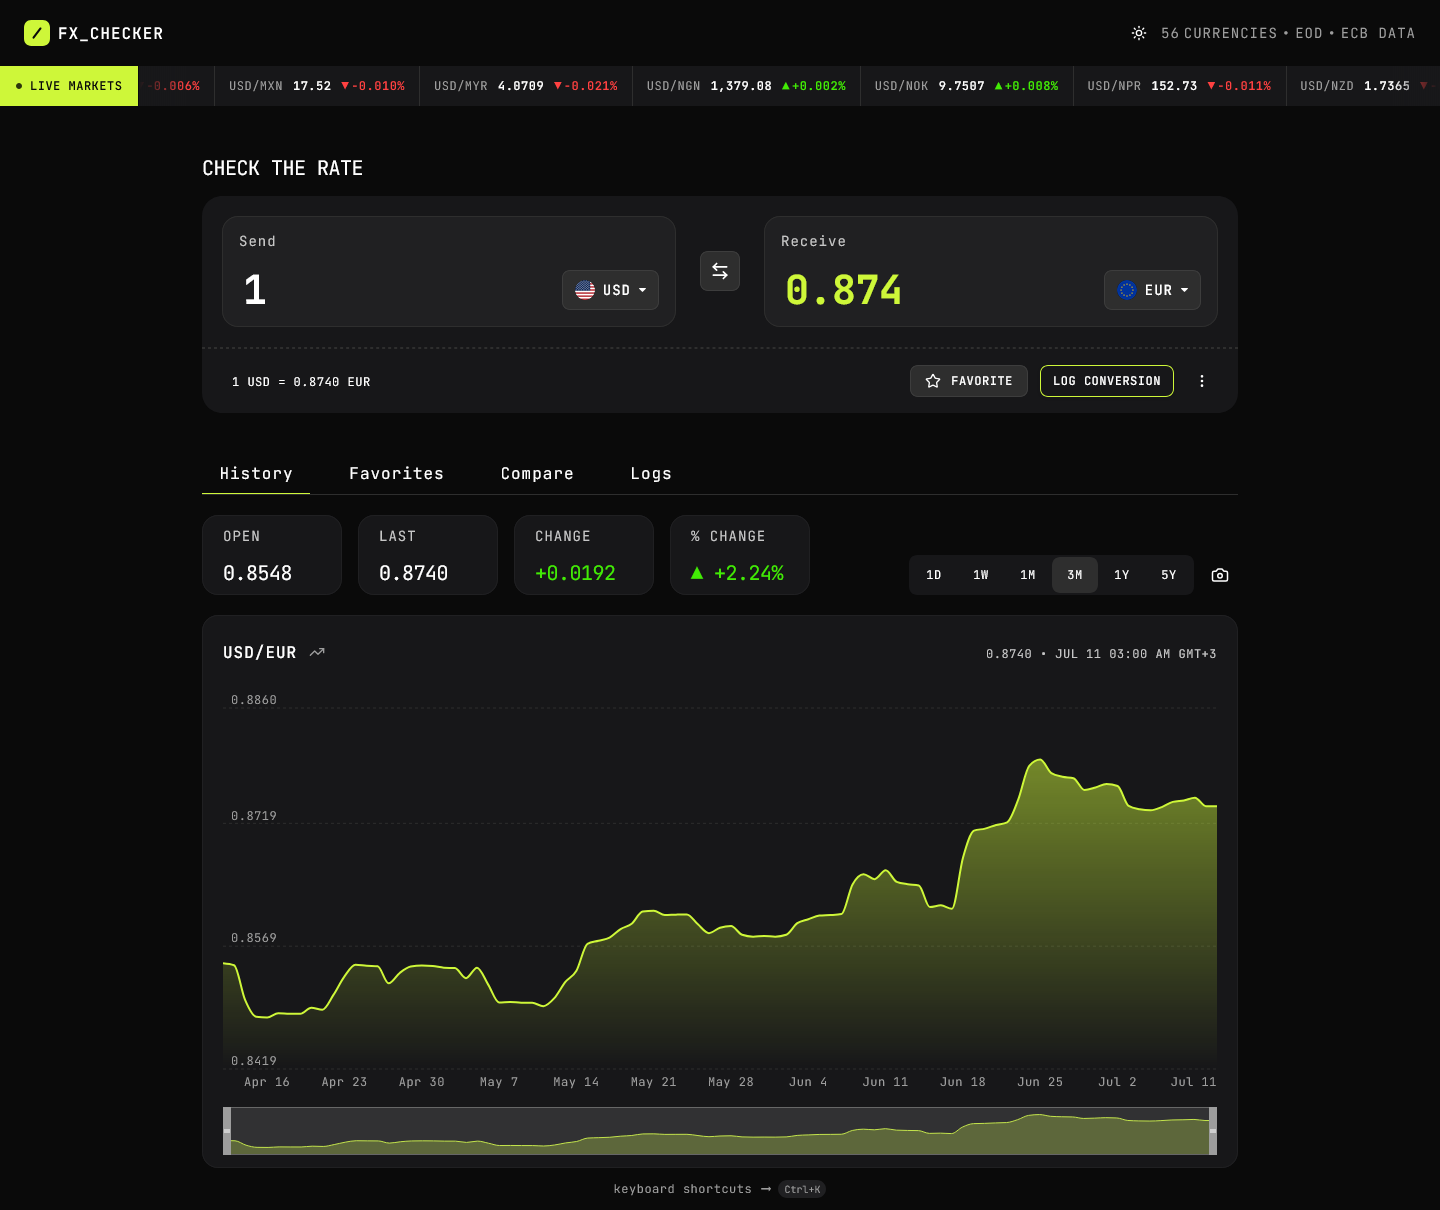
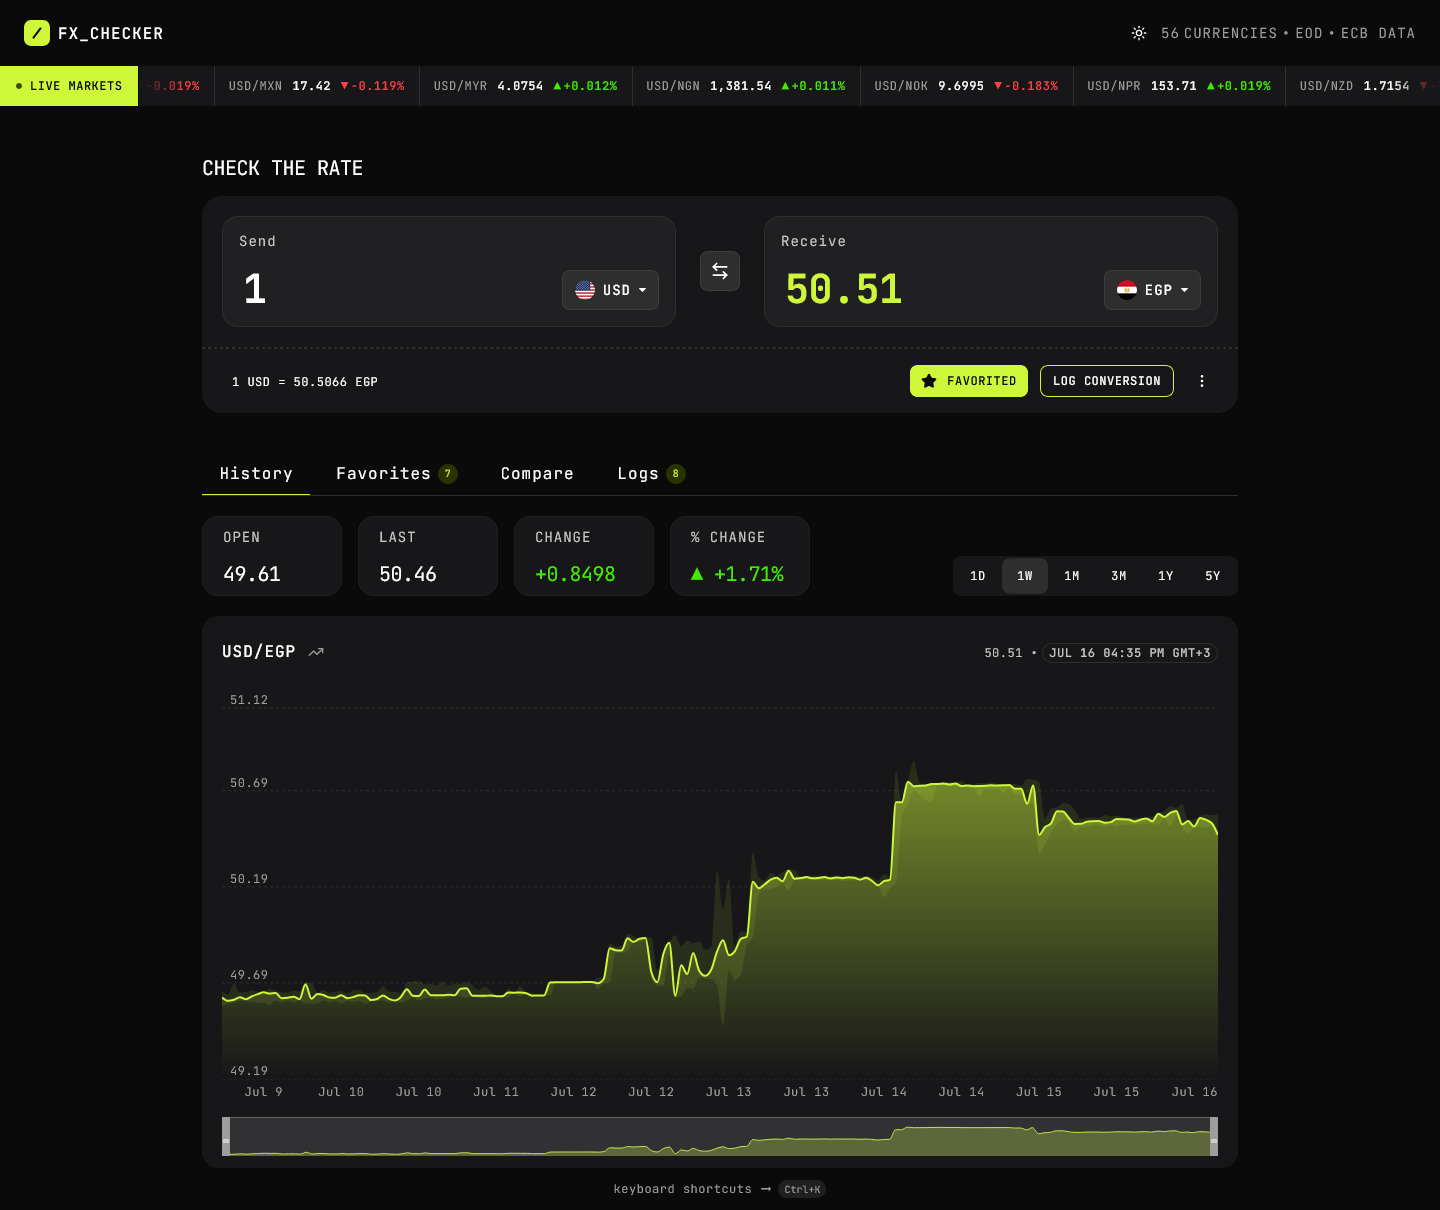
docs: update README with detailed challenges and data handling strategies; add screenshot table layout; include new preview images

diff --git a/README.md b/README.md
@@ -2,7 +2,12 @@
 
 A full-stack foreign exchange converter and rate-history dashboard built with TanStack Start.
 
-![FX_Checker](preview.png)
+### Screenshot
+
+<table>
+    <td><img src='preview.png' alt='home-dark'/></td>
+    <td><img src='preview-light.png' alt='home-light'/></td>
+</table>
 
 ## Links
 
@@ -72,6 +77,29 @@ TWELVE_DATA_API_KEY=your_key_here
 ```
 
 All other features work using the free Frankfurter API.
+
+### Challenges
+
+**Orchestrating two data sources for the history chart:**
+
+- **Frankfurter API** provides daily EOD rates — sufficient for 1M+ chart ranges but produces too few points for 1D/1W intraday views.
+- **Twelve Data API** fills the gap with OHLC intraday data for 1D/1W ranges. The `compare-history` server function routes requests by interval: Twelve Data for intraday intervals, Frankfurter otherwise.
+- Twelve Data's free tier is rate-limited to **8 req/min**. A `TokenBucket` gates all outgoing calls, and requests retry with exponential backoff on 429 responses.
+
+**Handling unsupported and non-USD pairs on Twelve Data:**
+
+- Twelve Data doesn't support certain currency pairs as the base symbol (e.g., `BHD/USD` returns 404). The `twelve-history` server function tries `{base}/{quote}` first; on 404 it falls back to `{quote}/{base}` and **inverts the OHLC data**, carefully swapping high/low values to avoid invalid candles.
+- For pairs where neither leg is USD, the server fetches both currencies' series against USD, then computes a **cross-rate** from the two intraday datasets — all server-side, so the client receives clean, correctly-oriented data.
+
+**Weekend data gaps in Frankfurter:**
+
+- ~109 of 165 currencies have no Saturday/Sunday data. The `getRates` server function finds the **latest date where the base currency actually has data** rather than picking the absolute latest date, preventing empty results for bases like ARS, BDT, or CLP. A `generateFallbackPairs` list provides 27 curated mixed-base pairs as a last resort.
+
+**Multi-layered caching:**
+
+- An in-memory `Map` with **LRU-style eviction** (`MAX_CACHE_SIZE=500`) paired with a disk JSON fallback survives server restarts.
+- Request deduplication via `getOrFetch` ensures concurrent requests for the same key share a single in-flight promise.
+- Per-source TTLs: 24h for daily rates, 1h for Frankfurter history, 5min–24h for Twelve Data intervals depending on granularity.
 
 ### AI Collaboration
 